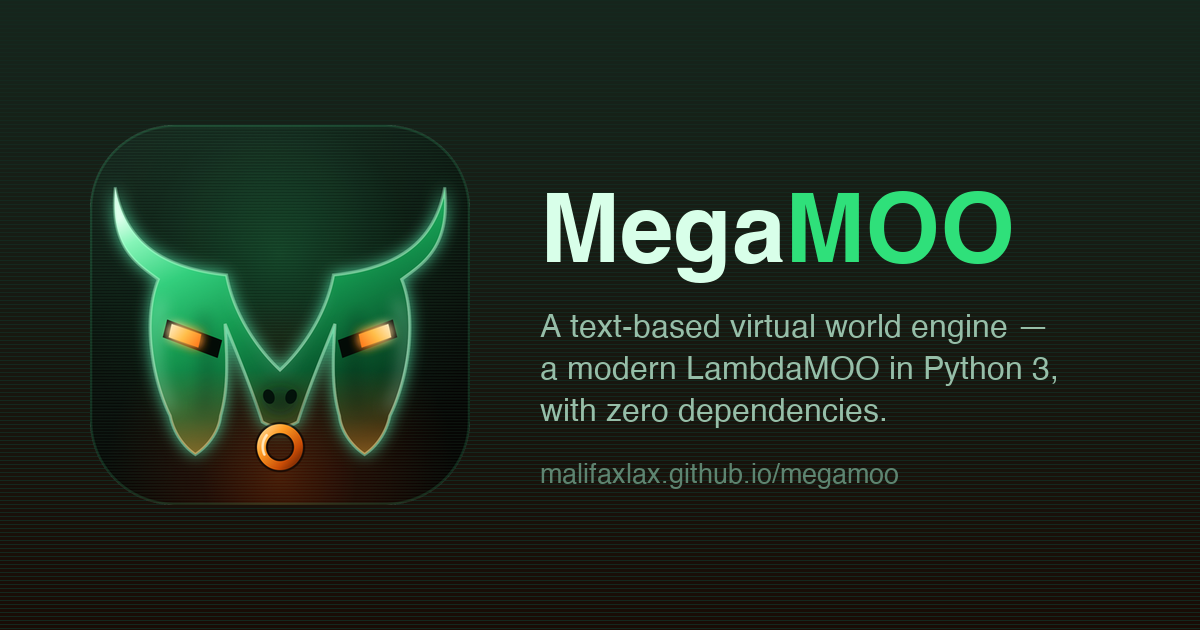
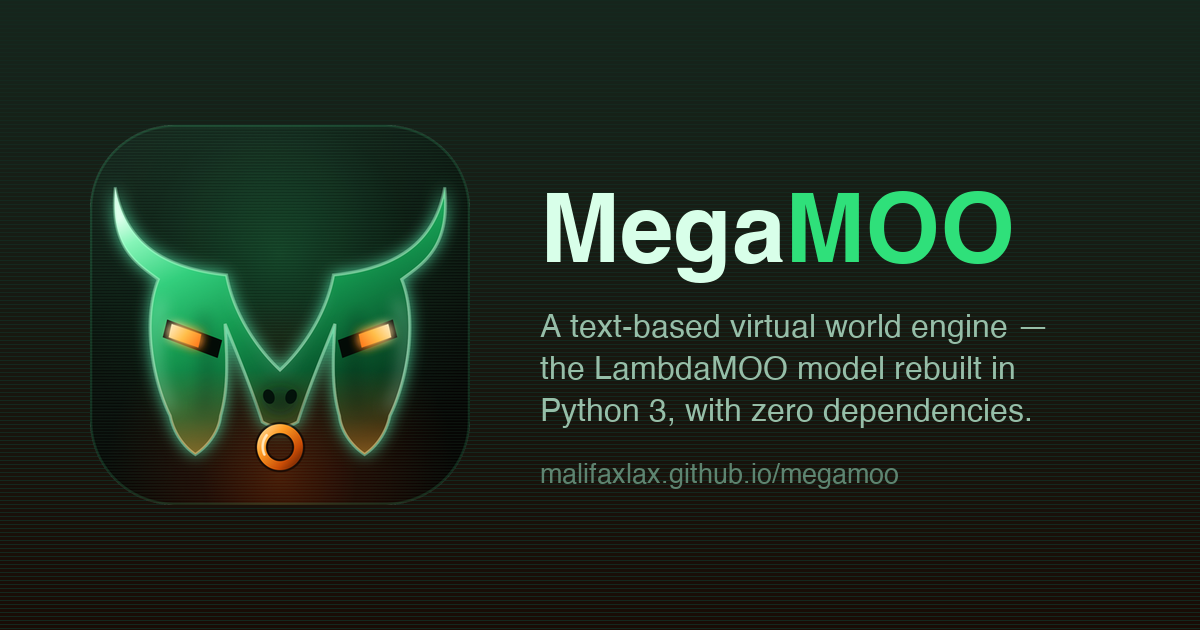
Docs: correct the compatibility framing and the stale starter-db claim
Two problems, both of which mislead the exact reader most likely to
show up: someone who already knows MOO.

"A from-scratch reimplementation of the LambdaMOO server" reads as a
promise that existing MOO code will run. It won't - the model is
reimplemented, the language is not. This came up on MOO Talk, and the
question was a fair reading of what we wrote. Both README and guide now
say plainly that this is MOO's model and not MOO's language, and a new
"Porting from LambdaMOO" section gives the substitution table and says
what actually carries over.

The README also claimed the repo ships no starter world database and
listed one as roadmap. mm.db has been tracked for a while, so the
single most persuasive thing about the project was contradicted by the
first file anyone opens.

Also retunes the page description, JSON-LD and OG card, which had
inherited the same "a modern LambdaMOO in Python 3" phrasing.

Changed region(s): [[0.4317, 0.6333, 0.8633, 0.6937], [0.4317, 0.5429, 0.8942, 0.6032]]

diff --git a/docs/guide/index.html b/docs/guide/index.html
@@ -5,19 +5,19 @@
 <meta name="viewport" content="width=device-width, initial-scale=1">
 <title>MegaMOO — a MUD server and MOO engine in Python</title>
 <!-- seo:begin -->
-<meta name="description" content="MegaMOO is a text-based virtual world engine: a modern LambdaMOO in Python 3 with zero dependencies. Build and program a multiplayer MUD from inside it, while it runs.">
+<meta name="description" content="A text-based virtual world engine: the LambdaMOO model rebuilt in Python 3, zero dependencies. Verbs are Python, not MOO code. Build a world from inside it.">
 <link rel="canonical" href="https://malifaxlax.github.io/megamoo/">
 <meta property="og:type" content="website">
 <meta property="og:site_name" content="MegaMOO">
 <meta property="og:title" content="MegaMOO — a MUD server and MOO engine in Python">
-<meta property="og:description" content="MegaMOO is a text-based virtual world engine: a modern LambdaMOO in Python 3 with zero dependencies. Build and program a multiplayer MUD from inside it, while it runs.">
+<meta property="og:description" content="A text-based virtual world engine: the LambdaMOO model rebuilt in Python 3, zero dependencies. Verbs are Python, not MOO code. Build a world from inside it.">
 <meta property="og:url" content="https://malifaxlax.github.io/megamoo/">
 <meta property="og:image" content="https://malifaxlax.github.io/megamoo/og-image.png">
 <meta property="og:image:width" content="1200">
 <meta property="og:image:height" content="630">
 <meta name="twitter:card" content="summary_large_image">
 <meta name="twitter:title" content="MegaMOO — a MUD server and MOO engine in Python">
-<meta name="twitter:description" content="MegaMOO is a text-based virtual world engine: a modern LambdaMOO in Python 3 with zero dependencies. Build and program a multiplayer MUD from inside it, while it runs.">
+<meta name="twitter:description" content="A text-based virtual world engine: the LambdaMOO model rebuilt in Python 3, zero dependencies. Verbs are Python, not MOO code. Build a world from inside it.">
 <meta name="twitter:image" content="https://malifaxlax.github.io/megamoo/og-image.png">
 <link rel="icon" href="https://malifaxlax.github.io/megamoo/favicon.ico" sizes="any">
 <link rel="apple-touch-icon" href="https://malifaxlax.github.io/megamoo/apple-touch-icon.png">
@@ -29,7 +29,7 @@
   "applicationCategory": "GameApplication",
   "applicationSubCategory": "MUD server",
   "operatingSystem": "Linux, macOS, Windows",
-  "description": "A text-based virtual world engine: a modern LambdaMOO in Python 3 with zero dependencies. Build and program a multiplayer world from inside it, while it runs.",
+  "description": "A text-based virtual world engine: the LambdaMOO model rebuilt in Python 3, zero dependencies. Verbs are Python, not MOO code. Build a world from inside it.",
   "url": "https://malifaxlax.github.io/megamoo/",
   "codeRepository": "https://github.com/MalifaxLax/megamoo",
   "programmingLanguage": "Python",
@@ -64,8 +64,8 @@
 <h2>What MegaMOO is</h2>
 
 <p class="lede">
-MegaMOO is a text-based virtual world engine — a complete reimplementation of
-the LambdaMOO server in Python 3. It hosts a shared, programmable world that
+MegaMOO is a text-based virtual world engine — the LambdaMOO model rebuilt from
+scratch in Python 3. It hosts a shared, programmable world that
 players connect to over telnet or websocket, where they move between rooms,
 handle objects, and talk to each other. Builders and programmers extend that
 world <em>while it is running</em>, by writing code directly into the live
@@ -77,6 +77,16 @@ It combines the object-oriented model LambdaMOO proved in 1990 with modern
 Python: <code>asyncio</code> networking, SQLite persistence, and the full
 standard library available inside the world's own code.
 </p>
+
+<div class="note">
+    <span class="label">MOO's model, not MOO's language</span>
+    <p>MegaMOO keeps what makes a MOO a MOO — objects carrying their own
+       properties and verbs, single-parent inheritance, programming the world
+       from inside it while it runs — but verbs are written in Python rather
+       than the MOO language. Existing MOO code does not run unmodified and has
+       to be ported. Because the object model carries over unchanged, that work
+       is mostly mechanical substitution inside the verb bodies.</p>
+</div>
 
 <p>
 <strong>A browser client is included.</strong> Start a world with

diff --git a/README.md b/README.md
@@ -1,8 +1,10 @@
 # MegaMOO
 
-A modern, from-scratch Python reimplementation of the [LambdaMOO](https://en.wikipedia.org/wiki/LambdaMOO) server — a persistent, multiplayer, fully programmable text world. Roughly 75,000 lines of Python built on `asyncio`, with **zero required third-party dependencies**: the core engine runs on the standard library alone.
+A modern, from-scratch text world engine in Python 3, built on the [LambdaMOO](https://en.wikipedia.org/wiki/LambdaMOO) model — a persistent, multiplayer, fully programmable text world. Roughly 75,000 lines of Python built on `asyncio`, with **zero required third-party dependencies**: the core engine runs on the standard library alone.
 
 Where classic MOO servers make you program in a purpose-built MOO language, MegaMOO's in-world programming language is **Python itself**. Every verb — from `look` to your own game systems — is a plain Python file with the full standard library available, executed live against a persistent object database.
+
+> **This reimplements MOO's model, not its language.** You get objects carrying their own properties and verbs, single-parent inheritance, live in-world programming, and a wizard/programmer/owner permission model. You do not get a MOO-language interpreter — existing MOO code does not run unmodified and has to be ported to Python. That port is largely mechanical; see [Porting from LambdaMOO](#porting-from-lambdamoo).
 
 ## Highlights
 
@@ -22,13 +24,16 @@ Where classic MOO servers make you program in a purpose-built MOO language, Mega
 Requires Python 3.10+. No `pip install` needed for the core server.
 
 ```
-python3 megamoo.py <database> [port]      # default port 7777
+python3 megamoo.py mm.db                  # default port 7777
 telnet localhost 7777
 ```
 
 Optional extras: `bcrypt` for stronger password hashing (salted SHA-256 fallback is built in), `websockets` for browser clients.
 
-> **Note:** the repository does not ship a starter world database; the server initializes its schema against a new database, but a packaged minimal core (rooms, character generation, base classes) is on the roadmap. See [Status](#status).
+`mm.db` ships with the repository: a starter world with the base object
+hierarchy, character generation, a full building suite of `@`-commands, and a
+starting room to build out from. Point the server at any other filename and it
+initializes a fresh schema instead.
 
 ## Architecture
 
@@ -88,6 +93,32 @@ else:
 ```
 
 No imports, no boilerplate: the verb namespace arrives pre-loaded with the acting player (`pobj`), parsed arguments (`args`, `dobj`, `iobj`), object matching (`pmatch`), cross-object calls (`call_verb`), and the rest of the builtin library. Objects are matched the way a player thinks — `jump gap`, `jump 2nd rope` — and the verb reads top to bottom like the action it performs.
+
+## Porting from LambdaMOO
+
+There is no MOO-language interpreter here, so existing MOO verbs have to be
+rewritten in Python. The good news is that the hard part of a MOO — the object
+model — carries over directly, because MegaMOO uses the same one: single-parent
+inheritance, properties and verbs living on objects, ownership and permission
+bits, `$name` system references.
+
+What changes is the verb body. The usual substitutions:
+
+| LambdaMOO | MegaMOO |
+|---|---|
+| `player:tell("...")` | `pobj.msg("...")` |
+| `this.location` | `this.location` (unchanged) |
+| `$string_utils:...` | Python's `str` methods and the standard library |
+| `pass(@args)` | `call_verb(parent, verb, ...)` |
+| `E_PERM` and friends | ordinary Python exceptions |
+| `player:my_huh(...)` | verb dispatch through the parser |
+
+A world's *content* is the part worth preserving — the rooms, the objects, the
+descriptions, the shape of the hierarchy. Verb code is usually the smaller and
+more replaceable half, and a lot of what old MOO utility packages exist to do
+(string formatting, sorting, list manipulation) is already in Python's standard
+library. A database importer to carry objects and properties across
+automatically is on the roadmap; today the port is manual.
 
 ## Accessibility
 
@@ -161,9 +192,10 @@ claude mcp add megamoo -e MEGAMOO_API_TOKEN=<token> -- python3 ~/sfdev/tools/meg
 
 Active development. The engine runs a private in-progress game world (character generation, building tools, and the accessibility layer are all exercised daily); it has not yet had a public multiplayer deployment. Near-term roadmap:
 
-- Packaged starter database (core classes, chargen, a small starting area)
 - Web client polish on the WebSocket path
 - Documentation for the builtin library and verb-authoring conventions
+- A LambdaMOO database importer, to carry an existing world's objects and
+  properties across and leave the verb bodies to port
 
 ## Credits
 
